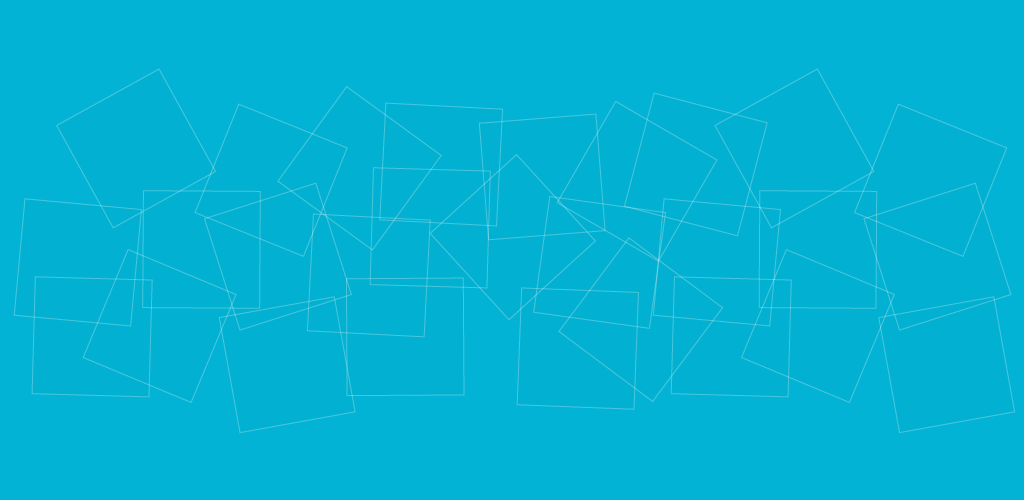
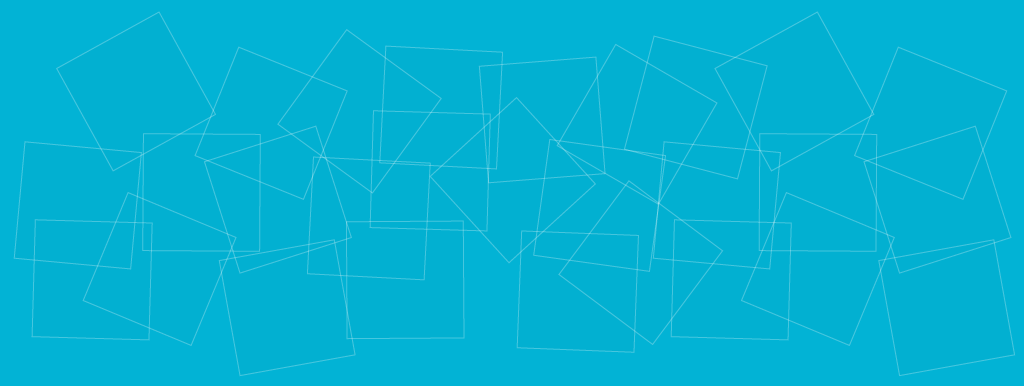
Improve UX

diff --git a/css/style.css b/css/style.css
@@ -1,12 +1,51 @@
 html, body { }
 body { color: #555; margin: 0; padding: 0; width: 100%; font-family: 'Open Sans',sans-serif; position: relative; font-weight: 300; overflow-x: hidden; overflow-y: auto; }
+body.min{padding-top: 300px;}
 ::-webkit-scrollbar { width: 5px; height: 5px; }
 ::-webkit-scrollbar-track-piece { background-color: #fff }
 ::-webkit-scrollbar-thumb:vertical { height: 5px; background-color: #ccc; }
 * { -moz-transition: background-color 0.05s ease-in-out; -ms-transition: background-color 0.05s ease-in-out; -o-transition: background-color 0.05s ease-in-out; -webkit-transition: background-color 0.05s ease-in-out; transition: background-color 0.05s ease-in-out; }
 [ng\:cloak], [ng-cloak], .ng-cloak { display: none; }
+ @-webkit-keyframes fadeInDown {
+    0% {
+       opacity: 0;
+       -webkit-transform: translateY(-20px);
+    }
+    100% {
+       opacity: 1;
+       -webkit-transform: translateY(0);
+    }
+ }
+
+ @keyframes fadeInDown {
+    0% {
+       opacity: 0;
+       transform: translateY(-20px);
+    }
+    100% {
+       opacity: 1;
+       transform: translateY(0);
+    }
+ }
+@-webkit-keyframes fadeOut {
+    0% {
+       opacity: 1;
+    }
+    100% {
+       opacity: 0;
+    }
+ }
+
+@keyframes fadeOut {
+    0% {
+       opacity: 1;
+    }
+    100% {
+       opacity: 0;
+    }
+ }
 a { color: inherit }
-a:hover, a:visited { /* color: inherit */ }
+a:hover, a:visited {}
 a, a:hover, a:visited { text-decoration: none; cursor: pointer; }
 .red { color: #fc3d39 }
 .darkred { color: #e33437 }
@@ -21,19 +60,35 @@ a, a:hover, a:visited { text-decoration: none; cursor: pointer; }
 .darkyellow { color: #feae00 }
 .pink { color: #d753c0 }
 .darkpink { color: #c246a4 }
-.white,a.white,a.white:visited { color: #eee }
+.white,a.white,a.white:visited {color: #ddd;}
 a.white:hover{color:#fff}
 .textXL { font-size: 32px; font-weight: 100; line-height: 1em; margin: 0.6em 0; }
 .textXXL { font-size: 41px; font-weight: 100; }
-body { background-color: #02b3d5 }
-#header { width: 100%; padding: 0; height: 313px; text-align: center; max-width: 100%; display: block; background: url(../images/headerBG.png) no-repeat center; background-size: cover; }
-#header #hamburger { color: #fff; position: fixed; top: 15px; left: 0; padding: 10px; background-color: rgba(0,0,0,0.2); z-index: 10; cursor: pointer; padding: 10px 10px 5px; }
-#header #headerContent { position: static; margin: 0; width: 100%; padding: 0 10px; box-sizing: border-box; }
-#header .links { float: right; margin: 21px auto 44px; list-style: none; padding: 5px 10px; background-color: rgba(0,0,0,0.2); display: inline-block; }
+body {background-color: #333;}
+#header { width: 100%; padding: 0;height: 386px; text-align: center; max-width: 100%; display: block; background: url(../images/headerBG.png) no-repeat center; background-size: cover;}
+#header #hamburger { color: #fff; position: fixed;top: 0px; left: 0; z-index: 10; cursor: pointer;padding: 13px 10px 7px;}
+#header #headerContent { position: static; margin: 0; width: 100%;padding: 0; box-sizing: border-box;}
+#header .links { float: right;margin: 11px auto 60px; list-style: none; padding: 5px 10px; display: inline-block;}
 #header .links li { display: inline-block; text-shadow: 1px 0px 1px rgba(0,0,0,.1); }
-#header .brand { margin: 60px auto 40px; width: 100%; max-width: 280px; display: block; }
+#header .links li a{font-weight:400}
+#header .brand {margin: 46px auto 24px; width: 100%; display: block;}
+#header #brandMin {display: none;}
+#header #brandMin img{height: 48px;}
+
+body.min #header {height: 48px; max-width: 100%;background: #333; position: fixed; top: 0; left: 0; z-index: 99;border-top: none;}
+body.min #header #hamburger {background-color:rgba(0,0,0,0.05)}
+body.min #header #headerContent { position: static;width: 100%;height: 100%;margin: 0 auto 0;max-width: 960px;padding: 0 10px;}
+body.min #header .links { display: none;}
+body.min #header .brand {display: none;}
+body.min #header #try-it-now{display: none}   
+body.min #header #brandMin{height: 50px; display: block; float: left;margin: 0;width: 100%;
+-webkit-animation-duration: 0.8s;
+animation-duration: 0.8s;
+-webkit-animation-name: fadeInDown;
+animation-name: fadeInDown;
+}
 .section { width: 100%; background-color: #fff; padding: 0; margin: 0; float: left; }
-.content { max-width: 100%; margin: 40px auto 50px; box-sizing: border-box; padding: 0 58px 0 58px; }
+.content { max-width: 100%; margin: 0px auto 50px; box-sizing: border-box;padding: 0 15px;}
 .content .menu { display: none }
 .menu { display: inline-block; padding-top: 0px; padding-bottom: 0px; }
 .menu li { list-style: none }
@@ -42,62 +97,85 @@ body { background-color: #02b3d5 }
 .menu li.selected a { color: #666 }
 .menu li a { display: block; padding: 5px 0; }
 #menuFixed { position: fixed; top: 0; left: 0; z-index: 30; background-color: #fff; height: 100%; padding: 0 20px 0 0;max-width: 70%;}
+body.min #menuFixed{top:47px}
 #menuFixed .menu { width: auto; max-width:100%;height: 100%;overflow-x: hidden;overflow-y: auto;}
 #menuFixed .menu ul { padding: 20px; margin: 0; max-width:100%;}
 #menuFixed .menu ul li { }
-#menuFixed .menu ul li a {/* white-space: nowrap; */padding: 8px 0;}
+#menuFixed .menu ul li a { padding: 8px 0;}
 #blackBG { width: 100%; height: 100%; position: fixed; top: 0; left: 0; z-index: 29; background-color: rgba(0,0,0,0.4); }
 .content article { padding-bottom: 20px; font-size: 13px; }
-.section#footer { background-color: #f9f9f9; padding: 0px 0 0; margin: 0; float: left; color: #333; border-top: 1px solid #eee; border-bottom: 4px solid #02b3d5; text-align: center; }
+.section#footer { background-color: #f9f9f9; padding: 0px 0 0; margin: 0; float: left; color: #333; border-top: 1px solid #eee;border-bottom: 4px solid #333; text-align: center;}
 .section#footer .content { margin: 0 auto 0 }
 #container { margin: 0 auto 0 }
 .both{clear: both}
+
 /* Github CSS */
 .pl-pds, .pl-s, .pl-s .pl-pse .pl-s1, .pl-sr, .pl-sr .pl-cce, .pl-sr .pl-sra, .pl-sr .pl-sre { color: #183691 }
-.markdown-body h1 { padding-top: 21px; font-size: 2em; line-height: 1.225; margin-top: 25px; display: block; }
-.markdown-body h2 { padding-top: 23px; padding-bottom: 0.3em; font-size: 1.75em; line-height: 1.225; border-bottom: 1px solid #eee; margin-top: 25px; display: block; }
+.markdown-body h1,.markdown-body h2 { padding-top: 23px; padding-bottom: 0.3em; font-size: 1.75em; line-height: 1.225; border-bottom: 1px solid #eee; margin-top: 25px; display: block; }
+body.min .section{padding-top:20px}
+body.min .markdown-body h1, body.min .markdown-body h2 {padding-top: 85px;}
+.markdown-body a{color:#666;}
+.markdown-body a:hover{color:#000;}
+.markdown-body h3{margin: 25px 0 10px;border-bottom: 1px solid #f6f6f6;padding-bottom: 8px;}
+.markdown-body h4 {margin: 10px 0;}
+.markdown-body h4 a{font-weight: 300; }
 .markdown-body .highlight pre, .markdown-body pre { padding: 16px; overflow: auto; font-size: 85%; line-height: 1.45; background-color: #f7f7f7; border-radius: 3px; }
 /* */
-.main-header-btn { transition: all 0.4s; padding: 9px 20px 10px; vertical-align: top; cursor: pointer; border: 1px solid rgba(255,255,255,0.2); border-radius: 3px; text-decoration: none; -webkit-tap-highlight-color: transparent; -webkit-animation: fadein 2s; -ms-animation: fadein 2s; animation: fadein 2s; text-shadow: none; color: #fff; background-color: rgba(0,0,0,0.2); font-size: 18px; display: inline-block; text-shadow: 0px 1px 1px rgba(0,0,0,0.4); }
-.main-header-btn:hover { box-shadow: 0 0 50px rgba(255,255,255,0.1); background-color: rgba(0,0,0,0.5); }
+.main-header-btn { transition: all 0.4s; padding: 9px 20px 10px; vertical-align: top; cursor: pointer; border: 1px solid rgba(255,255,255,0.2); border-radius: 3px; text-decoration: none; -webkit-tap-highlight-color: transparent; -webkit-animation: fadein 2s; -ms-animation: fadein 2s; animation: fadein 2s; text-shadow: none; color: #fff;background-color: #333; font-size: 18px; display: inline-block; text-shadow: 0px 1px 1px rgba(0,0,0,0.4);}
+.main-header-btn:hover { box-shadow: 0 0 50px rgba(255,255,255,0.1); background-color: #222; }
 
 .btn{border:1px solid #ddd;padding: 9px 18px;border-radius: 5px;font-weight: 400;display: inline-block;}
 .btn:hover{background-color:#eee}
 .floatRight{float: right;}
+
+.gif{max-width: 100%; border: 1px solid #eee; box-sizing:border-box;}
+
 @media screen and (min-width:24em) { 
-    #header { height: 348px }
-    #header .brand { max-width: 340px }
-    #header .links { margin: 21px auto 0; float: none; }
+    #header {}
+    #header .brand {max-width: 100%;}
+    #header .links {margin: 11px auto 0; float: none;}
 }
 @media screen and (min-width:28em) { 
-    #header {height: 367px}
-    #header .brand { max-width: 400px }
+    #header {}
+    #header .brand {max-width: 460px;margin-top: 40px;margin-bottom: 10px;}
     .content article { font-size: 15px }
 }
+@media screen and (min-width:35.5em){
+    body.min #header #brandMin{height: 48px; display: block; float: left;margin: 0px 0 0 48px;width: auto;}
+    body.min #header .links { float: right;margin: 7px 0 0; list-style: none;padding: 5px 0;background-color: transparent; display: block;
+    -webkit-animation-duration: 0.8s;
+    animation-duration: 0.8s;
+    -webkit-animation-name: fadeInDown;
+    animation-name: fadeInDown;}
+    body.min #header .links li { display: inline-block; text-shadow: 1px 0px 1px rgba(0,0,0,.1); }
+}
 @media screen and (min-width: 48em) { 
-    #header {height: 386px;}
-    #header .brand { max-width: 450px }
+    body.min #header #brandMin{margin: 0;}
+    #header {}
+    #header .brand {max-width: 542px;margin-top: 30px;}
     #header #headerContent { position: absolute; top: 0; left: 50%; margin: 0 0 0 -300px; z-index: 8; width: 600px; }
     .content { max-width: 960px; margin: 0px auto 50px; }
     #header #hamburger { display: none }
     #menuFixed { display: none }
     #blackBG { display: none }
-    .content .menu { display: inline-block; float: left; width: 25%; padding-top: 25px; padding-bottom: 25px; }
+    .content .menu { display: inline-block; float: left;width: 20%; padding-top: 25px; padding-bottom: 25px;}
+    body.min .content .menu {padding-top: 90px;}
     .content .menu ul { padding: 0; box-sizing: border-box; padding-right: 10px; }
-    .content article { display: inline-block; width: 75%; float: left; }
-    .markdown-body h1 { padding-top: 20px }
-    .markdown-body h2 { padding-top: 20px }
+    .content article { display: inline-block;width: 80%; float: left;}
+    .markdown-body h1,.markdown-body h2 { padding-top: 20px }
 }
-@media screen and (min-width: 64em) { 
-    #header { height: 500px }
-    #header .brand { max-width: 600px; margin-top: 104px; }
+@media screen and (min-width: 64em) {
+    body.min #header #headerContent {padding:0}
     .content { padding: 0 }
 }
 /* Before and after plugin */
 .balinks { display: none }
 #beforeafter { position: absolute; z-index: 2; top: 0; left: 50%; margin: 0 0 0 -512px; display: none; }
-@media screen and (min-width: 64em) { 
+@media screen and (min-width: 64em) {
+    body.min #beforeafter { display: none}
+    #beforeafter.fadeout,
+    #try-it-now.fadeout  {
+    display: none;}
     #beforeafter { display: block }
     #header { background: none }
 }
-

diff --git a/index.html b/index.html
@@ -18,30 +18,22 @@
 <link rel="stylesheet" type="text/css" href="css/fonts/material-icons.css">
 <link href="https://fonts.googleapis.com/css?family=Open+Sans:400,300" rel="stylesheet" type="text/css">
 <link rel="stylesheet" type="text/css" href="css/style.css" media="screen">
+<link rel="stylesheet" type="text/css" href="css/custom.css" media="screen">
 <script type="text/javascript" src="js/jquery.min.js"></script>
 <script type="text/javascript" src="js/jquery-ui.min.js"></script>
 <script type="text/javascript" src="js/jquery.beforeafter-1.4.js"></script>
 <script src="js/angular.min.js"></script>
 <script src="js/panel.js"></script>
 <script src="js/my_controller.js"></script>
-<script type="text/javascript">
-$(function(){
-	$('#container').beforeAfter({
-	animateIntro : true,
-        introDelay : 1500,
-        introDuration : 1000,
-        showFullLinks : false
-	});
-});
-</script>
 <link rel="shortcut icon" href="images/favicon.png">
 </head>
-<body ng-controller="myCtrl" ng-init="view = hash">
+<body ng-controller="myCtrl" ng-init="view = hash" scroll id="page" ng-class="{min:boolChangeClass}" class="ng-cloak">
 <div id="header">
-    <div id="hamburger" ng-init="lateralMenu = false" ng-click="lateralMenu = !lateralMenu">
-        <i class="material-icons hamburger">&#xE5D2;</i>
-    </div>
+  <div id="hamburger" ng-init="lateralMenu = false" ng-click="lateralMenu = !lateralMenu">
+      <i class="material-icons hamburger">&#xE5D2;</i>
+  </div>
 	<div id="headerContent">
+    <div id="brandMin"><img src="images/brandMin.png"></div>
 		<ul class="links white">
 			<li><a class="white" href="https://github.com/dankomiocevic/mulifs">GitHub</a></li>
 			<li>|</li>
@@ -50,13 +42,12 @@ $(function(){
 			<li><a class="white" href="https://github.com/dankomiocevic/mulifs/archive/master.zip">Download</a></li>
 		</ul>
 		<img class="brand" src="images/brand.png">
-		<!--<p class="textXL white">Pasteurized Music Library File System</p>-->
-		<p><a href="https://github.com/dankomiocevic/mulifs" class="main-header-btn">Try it now</a></p>
+		<p id="try-it-now"><a href="https://github.com/dankomiocevic/mulifs" class="main-header-btn">Try it now</a></p>
 	</div>
-	<div id="beforeafter">
+  <div id="beforeafter">
 		<div id="container">
-		 <div><img alt="before" src="images/headerBG1.png" width="1024" height="500" /></div>
-		 <div><img alt="after" src="images/headerBG2.png" width="1024" height="500" /></div>
+		 <div><img alt="before" src="images/headerBG1.png" width="1024" height="386" /></div>
+		 <div><img alt="after" src="images/headerBG2.png" width="1024" height="386" /></div>
 		</div>
 	</div>
 </div>

diff --git a/js/my_controller.js b/js/my_controller.js
@@ -1,6 +1,32 @@
 myApp.controller('myCtrl', function ($scope) {
-	
-	$scope.hash =  window.location.hash.substr(1);
-	if(!$scope.hash){$scope.hash = 'mulifs--music-library-filesystem'}
-	
+    
+    $scope.hash =  window.location.hash.substr(1);
+    if(!$scope.hash){
+        $scope.hash = 'mulifs--music-library-filesystem';
+        $scope.boolChangeClass = false;
+    }
+    else{
+        $scope.boolChangeClass = false;
+    }
+    $('.menu li a').click(function(){
+        $scope.boolChangeClass=true;
+    });
+});
+
+myApp.directive("scroll", function ($window) {
+    return function(scope, element, attrs) {
+        angular.element($window).bind("scroll", function() {
+             if (this.pageYOffset >= 339) {
+                 scope.boolChangeClass = true;
+             } else {
+                 scope.boolChangeClass = false;
+             }
+             if (this.pageYOffset >= 310) {
+                 scope.fadeoutThis = true;
+             } else {
+                 scope.fadeoutThis = false;
+             }
+            scope.$apply();
+        });
+    };
 });

diff --git a/css/custom.css b/css/custom.css
@@ -1,0 +1,14 @@
+body { background-color:#02b3d5; }
+.section#footer {border-bottom: 2px solid #02b3d5;}
+#header {background-color: #02b3d5; }
+
+body.min #header {background-color: #02b3d5; border-top: none;}
+
+#header .links {background-color: transparent; color:#eee; font-weight:400}
+#header .links li{text-shadow:none;}
+#header .links .white,a.white,a.white:visited { color: #eee }
+#header .links a.white:hover{color:#fff}
+.main-header-btn { background-color: #02b3d5;}
+.main-header-btn:hover { background-color: #029ebd; }
+#header #hamburger{background-color: transparent; color:#eee}
+

diff --git a/js/panel.js b/js/panel.js
@@ -4,5 +4,15 @@ $(document).ready(function(){
 	// Set article height
  	var winH = $(window).height();
  	var footerH = $('#footer').height();
- 	$('.content article').css('min-height',winH-footerH+'px');
+ 	var headerH = $('#header').height();
+ 	$('.content article').css('min-height',winH-footerH-40+'px');
+});
+
+$(function(){
+	$('#container').beforeAfter({
+	animateIntro : true,
+        introDelay : 1500,
+        introDuration : 1000,
+        showFullLinks : false
+	});
 });
